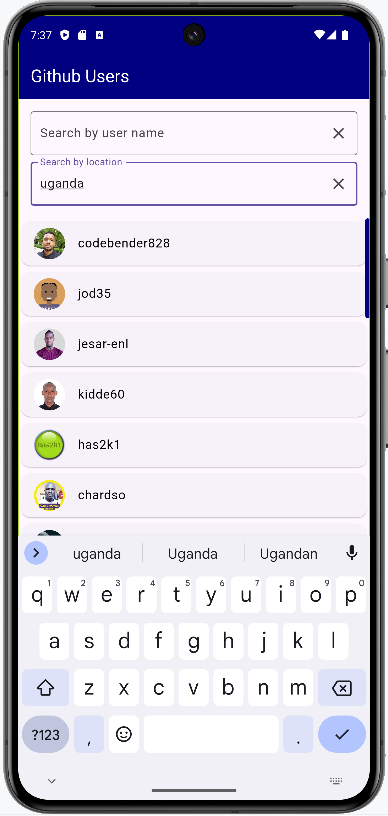
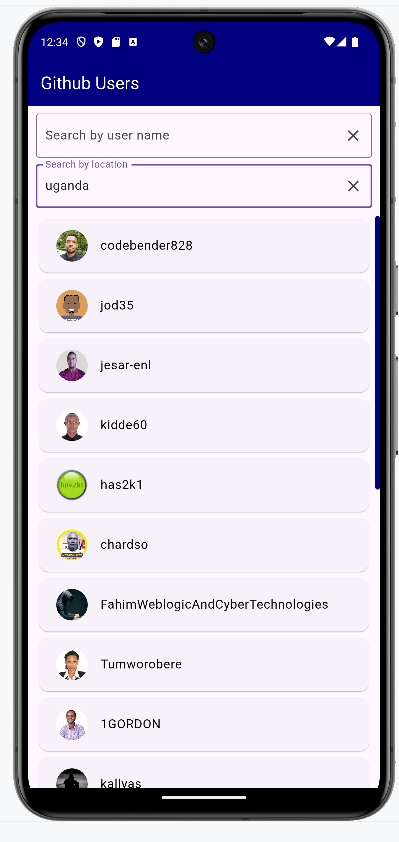
ch(update_readme):making changes to ui and updating readme accordingly

diff --git a/lib/presentation/widgets/user_details_card.dart b/lib/presentation/widgets/user_details_card.dart
@@ -1,5 +1,7 @@
 import 'package:flutter/material.dart';
+// import 'package:url_launcher/url_launcher.dart';
 import '../../domain/entities/user.dart';
+import '../utils/url_launcher.dart';
 
 class UserDetailsCard extends StatelessWidget {
   final User user;
@@ -14,28 +16,28 @@ class UserDetailsCard extends StatelessWidget {
         Stack(
           children: [
             CustomPaint(
-              size: Size(MediaQuery.of(context).size.width, 150),
+              size: Size(MediaQuery.of(context).size.width, 225),
               painter: ArcPainter(),
             ),
             Positioned(
-              top: 50,
-              left: MediaQuery.of(context).size.width / 2 - 50,
+              top: 25,
+              left: MediaQuery.of(context).size.width / 2 - 100,
               child: CircleAvatar(
                 backgroundImage: NetworkImage(user.avatarUrl),
-                radius: 50,
+                radius: 100,
               ),
             ),
           ],
         ),
-        const SizedBox(height: 70),
+        const SizedBox(height: 45),
         Text(
           user.name,
-          style: const TextStyle(fontSize: 24, fontWeight: FontWeight.bold),
+          style: const TextStyle(fontSize: 30, fontWeight: FontWeight.bold),
         ),
         const SizedBox(height: 8),
         Text(
           user.login,
-          style: const TextStyle(fontSize: 18, color: Colors.grey),
+          style: const TextStyle(fontSize: 18, color: Color(0xFF000080)),
         ),
         const SizedBox(height: 16),
         ...[
@@ -47,18 +49,19 @@ class UserDetailsCard extends StatelessWidget {
             style: const TextStyle(fontSize: 16),
           ),
         ),
-        const SizedBox(height: 16),
+        const SizedBox(height: 20),
       ],
         ElevatedButton(
           onPressed: () {
-            (Uri.parse('https://github.com/${user.login}'));
+            launchUrlInBrowser('https://github.com/${user.login}');
           },
           style: ElevatedButton.styleFrom(
             backgroundColor: const Color(0xFF000080),
+            foregroundColor: const Color(0xFFFFFFFF,)
           ),
           child: const Text('VISIT GITHUB PROFILE'),
         ),
-        const SizedBox(height: 16),
+        const SizedBox(height: 40),
         Row(
           mainAxisAlignment: MainAxisAlignment.spaceAround,
           children: [
@@ -76,12 +79,12 @@ class UserDetailsCard extends StatelessWidget {
       children: [
         Text(
           value,
-          style: const TextStyle(fontSize: 20, fontWeight: FontWeight.bold),
+          style: const TextStyle(fontSize: 26, fontWeight: FontWeight.bold),
         ),
         const SizedBox(height: 4),
         Text(
           label,
-          style: const TextStyle(fontSize: 14, color: Colors.grey),
+          style: const TextStyle(fontSize: 16, color: Color(0xFF000080)),
         ),
       ],
     );

diff --git a/lib/presentation/screens/users_screen.dart b/lib/presentation/screens/users_screen.dart
@@ -92,7 +92,7 @@ class _UsersScreenState extends State<UsersScreen> {
       body: Column(
         children: [
           Padding(
-            padding: const EdgeInsets.all(16.0),
+            padding: const EdgeInsets.all(10.0),
             child: Column(
               children: [
                 Stack(
@@ -175,7 +175,10 @@ class _UsersScreenState extends State<UsersScreen> {
                   final user = userProvider.searchedUsers[index];
                   return GestureDetector(
                     onTap: () => _onUserTap(user),
+                    child: Padding (
+                      padding: const EdgeInsets.only(left: 10.0, right: 10.0),
                     child: UserCard(user: user),
+                    ),
                   );
                 },
               )
@@ -184,7 +187,10 @@ class _UsersScreenState extends State<UsersScreen> {
                 builderDelegate: PagedChildBuilderDelegate<User>(
                   itemBuilder: (context, user, index) => GestureDetector(
                     onTap: () => _onUserTap(user),
-                    child: UserCard(user: user),
+                    child: Padding (
+                      padding: const EdgeInsets.only(left: 10.0, right: 10.0),
+                      child: UserCard(user: user),
+                    ),
                   ),
                 ),
               ),

diff --git a/lib/presentation/screens/user_details_screen.dart b/lib/presentation/screens/user_details_screen.dart
@@ -50,6 +50,8 @@ class _UserDetailsScreenState extends State<UserDetailsScreen> {
 
     return Scaffold(
       appBar: AppBar(
+        backgroundColor: const Color(0xFF000080),
+        foregroundColor: const Color(0xFFFFFFFF),
         title: const Text('Profile'),
         actions: [
           IconButton(
@@ -78,7 +80,7 @@ class _UserDetailsScreenState extends State<UserDetailsScreen> {
           return Container(
             color: const Color(0xFFF0F0F0),
             child: ListView(
-              padding: const EdgeInsets.all(16.0),
+              padding: const EdgeInsets.all(0.0),
               children: [
                 if (!connectivityProvider.isConnected)
                   const Padding(

diff --git a/lib/presentation/widgets/no_internet_feedback_card.dart b/lib/presentation/widgets/no_internet_feedback_card.dart
@@ -39,6 +39,10 @@ class NoInternetFeedback extends StatelessWidget {
             ),
             const SizedBox(height: 16.0),
             ElevatedButton(
+              style: ElevatedButton.styleFrom(
+                backgroundColor: Color(0xFF000080),
+                foregroundColor: Color(0xFFFFFFFF),
+              ),
               onPressed: openSettings,
               child: const Text('Turn On'),
             ),

diff --git a/lib/presentation/widgets/user_card.dart b/lib/presentation/widgets/user_card.dart
@@ -10,11 +10,14 @@ class UserCard extends StatelessWidget {
   @override
   Widget build(BuildContext context) {
     return Card(
+      child: Padding(
+        padding: const EdgeInsets.all(6.0),
       child: ListTile(
         leading: CircleAvatar(
           backgroundImage: NetworkImage(user.avatarUrl),
         ),
         title: Text(user.login, style: AppStyles.bodyText),
+      ),
       ),
     );
   }

diff --git a/lib/presentation/utils/url_launcher.dart b/lib/presentation/utils/url_launcher.dart
@@ -1,0 +1,17 @@
+import 'package:flutter/foundation.dart';
+import 'package:url_launcher/url_launcher.dart';
+
+Future<void> launchUrlInBrowser(String url) async {
+  final Uri uri = Uri.parse(url);
+  try {
+    if (await canLaunchUrl(uri)) {
+      await launchUrl(uri);
+    } else {
+      throw 'Could not launch $url';
+    }
+  } catch (e) {
+    if (kDebugMode) {
+      print(e);
+    }
+  }
+}

diff --git a/README.md b/README.md
@@ -54,11 +54,11 @@ Instructions on how to run the app on an emulator or a physical device:
 
 ![splash screen](./screen_shots/splash_screen.png)
 ![home screen](./screen_shots/users_screen.png)
-![search username screen](./screen_shots/search_user.png)
+![search username screen](./screen_shots/search_username.png)
 ![search location screen](./screen_shots/search_location.png)
 ![user details screen](./screen_shots/user_details_screen.png)
-![share view](./screen_shots/share_details.png)
-![no internet view](./screen_shots/no_internet.png)
+![share view](./screen_shots/share_details_view.png)
+![no internet view](./screen_shots/no_internet_view.png)
 
 
 
